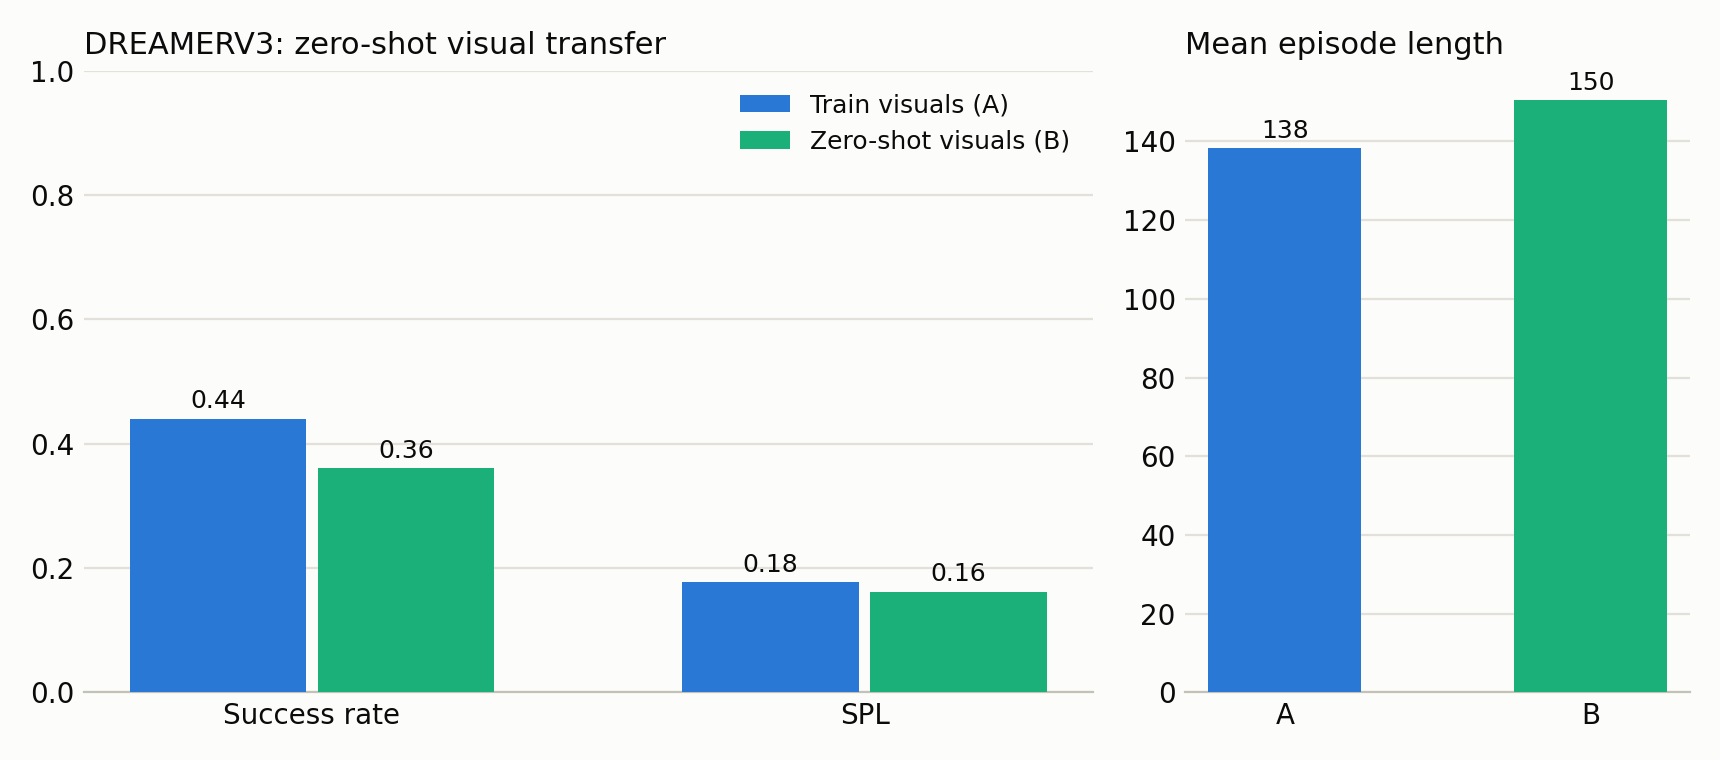
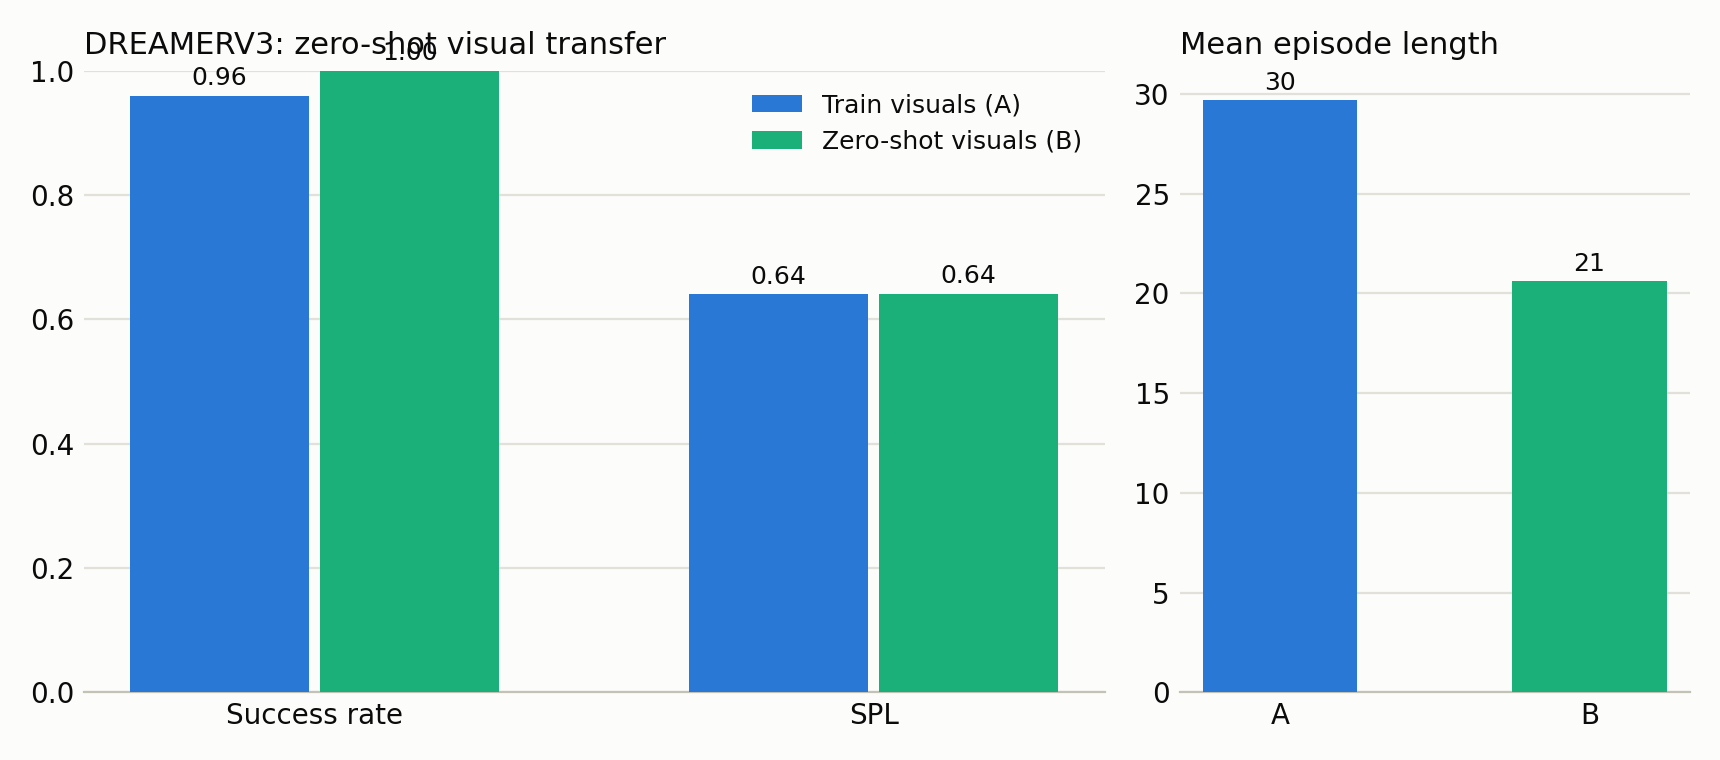
Add DreamerV3 ratio-512 parity results: zero transfer drop (A 0.96 / B 1.00)
At the published compute recipe DreamerV3 transfers perfectly on this
house pair (SPL 0.640 vs 0.641), vs recipe-complete PPO's 32.4% +/- 29.6%
mean relative drop. The earlier 18.2% drop at ratio 128 was an
undertraining artifact; those tables move to results/archive/. n=1 seed —
5-seed ratio-512 sweep launched as klone job 37948923.

diff --git a/results/archive/dreamerv3_ratio128/dreamerv3_transfer_summary.md b/results/archive/dreamerv3_ratio128/dreamerv3_transfer_summary.md
@@ -2,10 +2,10 @@
 
 | variant               |   success_rate |   spl |   mean_episode_length |   mean_total_reward |   episodes |
 |:----------------------|---------------:|------:|----------------------:|--------------------:|-----------:|
-| A (train visuals)     |          0.960 | 0.640 |                29.680 |              11.039 |         25 |
-| B (zero-shot visuals) |          1.000 | 0.641 |                20.600 |              11.546 |         25 |
+| A (train visuals)     |          0.440 | 0.177 |               138.320 |               3.145 |         25 |
+| B (zero-shot visuals) |          0.360 | 0.162 |               150.480 |               2.201 |         25 |
 
-- **Success-rate drop (A - B): -0.040 absolute, -4.2% relative**
-- **SPL drop (A - B): -0.001 absolute**
+- **Success-rate drop (A - B): 0.080 absolute, 18.2% relative**
+- **SPL drop (A - B): 0.015 absolute**
 
 _Same frozen policy, same episode seeds (paired starts), no fine-tuning._
